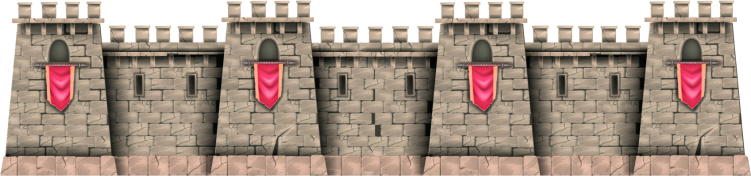
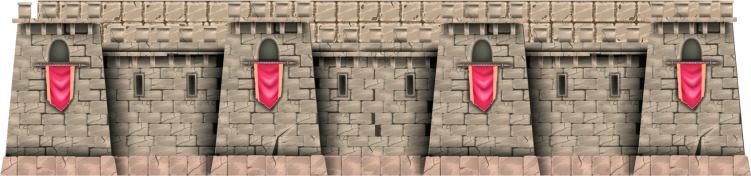
tower rebuild

Changed region(s): [[0.0306, 0.0, 0.98, 0.2557]]

diff --git a/src/assets/scss/layout/_index.scss b/src/assets/scss/layout/_index.scss
@@ -364,8 +364,8 @@ img {
 }
 
 .buy-wrap {
-  width: 240px;
-  height: 220px;
+  width: 256px;
+  height: 243px;
   position: absolute;
   border: none;
 
@@ -406,7 +406,7 @@ img {
     font-size: 14px;
     line-height: 1.3;
     text-align: center;
-    transform: rotate(21.26deg);
+    transform: rotate(-29.61deg);
     color: #ffffff;
     margin-bottom: 20px;
     margin-left: 15px;
@@ -744,19 +744,19 @@ img {
     background-position: center;
     right: 0px;
     top: 0px;
-    transform: translate(80%, 80%) rotate(-50deg);
+    transform: translate(90%, 50%) rotate(5deg);
 
     @include max-screen(xl) {
       background-size: 100% 100%;
       width: 258px;
       height: 250px;
-      transform: translate(80%, 17%) rotate(-50deg);
+      transform: translate(80%, 17%) rotate(5deg);
     }
     @include max-screen(lg) {
-      transform: translate(74%, 17%) rotate(-50deg);
+      transform: translate(74%, 17%) rotate(5deg);
     }
     @include max-screen(md) {
-      transform: translate(30%, 73%) rotate(-50deg);
+      transform: translate(30%, 73%) rotate(5deg);
     }
     @include max-screen(sm) {
       transform: translate(17%, 55%);
@@ -773,6 +773,8 @@ img {
     &:after {
       transform: rotate(0deg);
       animation: moveBlinkRight 1.5s linear infinite;
+      height: 100%;
+      top: 15px;
 
       @include max-screen(md) {
         height: 65%;
@@ -957,6 +959,7 @@ img {
       }
     }
 
+
     &--left, .tower-wrap__guys--right {
       @include align-center;
     }
@@ -1032,7 +1035,7 @@ img {
     max-width: 100%;
   //  z-index: 2;
     position: relative;
-    background: url("assets/img/tower-bagr.png") no-repeat;
+    background: url("assets/img/tower-blocks-bg.png") no-repeat;
     background-size: 100% 100%;
     background-position: center;
 
@@ -1041,36 +1044,42 @@ img {
     .tower {
       width: 1030px;
       margin: auto;
-      height: 1393px;
+   //   height: 1393px;
+      height: fit-content;
 
-      padding: 48px 45px 156px 61px;
+      padding: 32px 45px 156px 61px;
       @include max-screen(xxxl) {
-        width: 695px;
-        height: 1295px;
-
-        padding: 42px 0 141px 17px;
+        width: 743px;
+     //   height: 1295px;
+        height: fit-content;
+        padding: 32px 0 185px 41px;
       }
       @include max-screen(xxl) {
-        width: 600px;
-        height: 1064px;
-        padding: 36px 10px 119px 24px;
+        width: 623px;
+      //  height: 1064px;
+
+        padding: 25px 0px 154px 32px;
       }
       @include max-screen(xl) {
-        width: 558px;
-        padding: 34px 0px 119px 11px;
+        width: 605px;
+        padding: 24px 0px 150px 34px;
       }
       @include max-screen(lg) {
-        width: 460px;
-        padding: 25px 0 94px 11px;
-        height: 765px;
+        width: 498px;
+        padding: 17px 0 120px 30px;
+     //   height: 765px;
       }
       @include max-screen(md) {
-        width: 425px;
+        width: 467px;
+        padding: 15px 10px 110px 30px;
+      }
+      @include max-screen(sm) {
+        padding: 15px 10px 112px 27px;
       }
       @include max-screen(xs) {
         width: 100%;
-        height: 470px;
-        padding: 16px 10px 72px 16px;
+    //    height: 470px;
+        padding: 6px 0px 62px 16px;
       }
 
       &__row {
@@ -1079,15 +1088,31 @@ img {
         margin-bottom: 2px;
 
         &--xl {
-          height: 30%;
+            height: 334px;
 
+          @include max-screen(xxl) {
+            height: 273px;
+          }
+          @include max-screen(lg) {
+            height: 194px;
+          }
           @include max-screen(xs) {
-            height: 32%;
+            height: 122px;
           }
         }
 
         &--lg {
-          height: 16%;
+          height: 178px;
+
+          @include max-screen(xxl) {
+            height: 145px;
+          }
+          @include max-screen(lg) {
+            height: 103px;
+          }
+          @include max-screen(xs) {
+            height: 61px;
+          }
 
           .tower__col img {
             @include max-screen(xxl) {
@@ -1103,10 +1128,16 @@ img {
         }
 
         &--md {
-          height: 9%;
+          height: 100px;
 
+          @include max-screen(xxl) {
+            height: 82px;
+          }
+          @include max-screen(lg) {
+            height: 58px;
+          }
           @include max-screen(xs) {
-            height: 8%;
+            height: 31px;
           }
 
           .tower__col img{
@@ -1130,7 +1161,17 @@ img {
         }
 
         &--sm {
-          height: 4%;
+          height: 45px;
+
+          @include max-screen(xxl) {
+            height: 36px;
+          }
+          @include max-screen(lg) {
+            height: 26px;
+          }
+          @include max-screen(xs) {
+            height: 15px;
+          }
 
           .tower__col img {
             border-radius: 10px;
@@ -1153,10 +1194,13 @@ img {
         }
 
         &--xs {
-          height: 2%;
+          height: 23px;
 
+          @include max-screen(xxl) {
+            height: 18px;
+          }
           @include max-screen(lg) {
-            height: 3%;
+            height: 20px;
           }
           @include max-screen(xs) {
             height: 10px;
@@ -1206,6 +1250,7 @@ img {
           height: 100%;
           object-fit: cover;
           border-radius: 45px;
+          border: 0;
 
           @include max-screen(xs) {
             border-radius: 18px;
@@ -1246,6 +1291,36 @@ img {
       margin-left: 25px;
     }*/
   }
+}
+
+.tower-top {
+  position: absolute;
+  top: -13px;
+  margin: auto;
+  left: 38px;
+  width: 95%;
+  right: 0;
+
+  @include max-screen(xxl) {
+    left: 32px;
+
+  }
+  @include max-screen(lg) {
+    left: 23px;
+
+  }
+  @include max-screen(xs) {
+    left: 13px;
+
+  }
+}
+
+.tower-bottom {
+  position: absolute;
+  bottom: 0;
+  width: 105%;
+  left: 0px;
+  z-index: 3;
 }
 
 .tower-block {

diff --git a/src/views/Home.vue b/src/views/Home.vue
@@ -688,6 +688,9 @@
         </div>
 
         <div class="tower-wrap__img">
+          <div class="tower-top">
+            <img src="@/assets/img/tower-top.png" alt="">
+          </div>
           <!--      <img src="@/assets/img/tower.png" alt="" class="tower">-->
           <div class="tower">
             <div class="tower__row tower__row--xl">
@@ -946,6 +949,10 @@
                 </div>
               </div>
             </div>
+          </div>
+          
+          <div class="tower-bottom">
+            <img src="@/assets/img/tower-bottom.png" alt="">
           </div>
         </div>
       </div>
